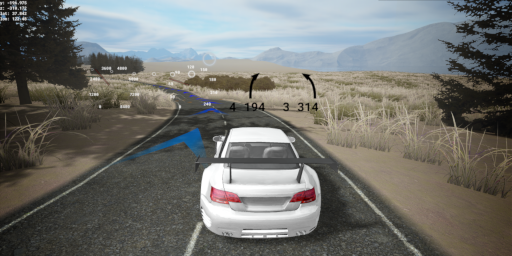
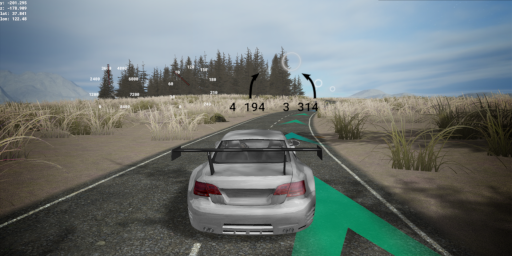
Add detail texture to island0

diff --git a/README.md b/README.md
@@ -14,7 +14,7 @@ A rally game based on OpenStreetMap data.
 ![Screenshot-RR1-2022-10-17](media/Screenshot-RR1-2023-02-25.png)
 
 ### Island 0
-![Screenshot-I0-2023-02-25](media/Screenshot-I0-2023-09-08.png)
+![Screenshot-I0-2023-09-11](media/Screenshot-I0-2023-09-11.png)
 
 ### Forest 0
 ![Screenshot-R0-2023-02-25](media/Screenshot-F0-2023-09-09.png)
